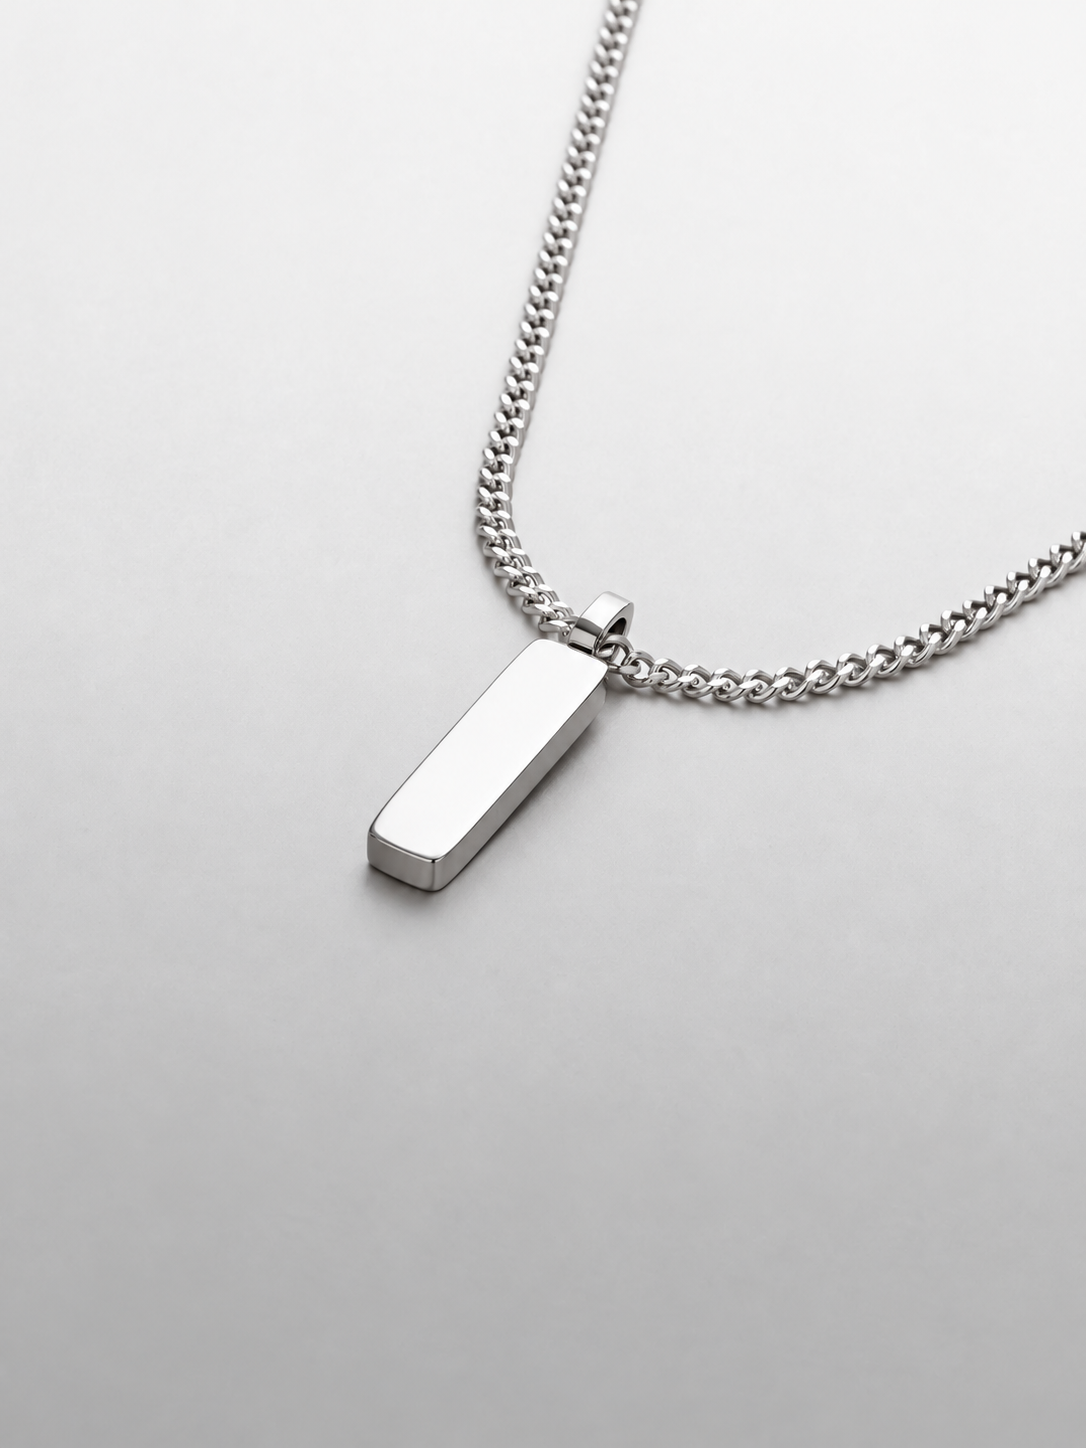
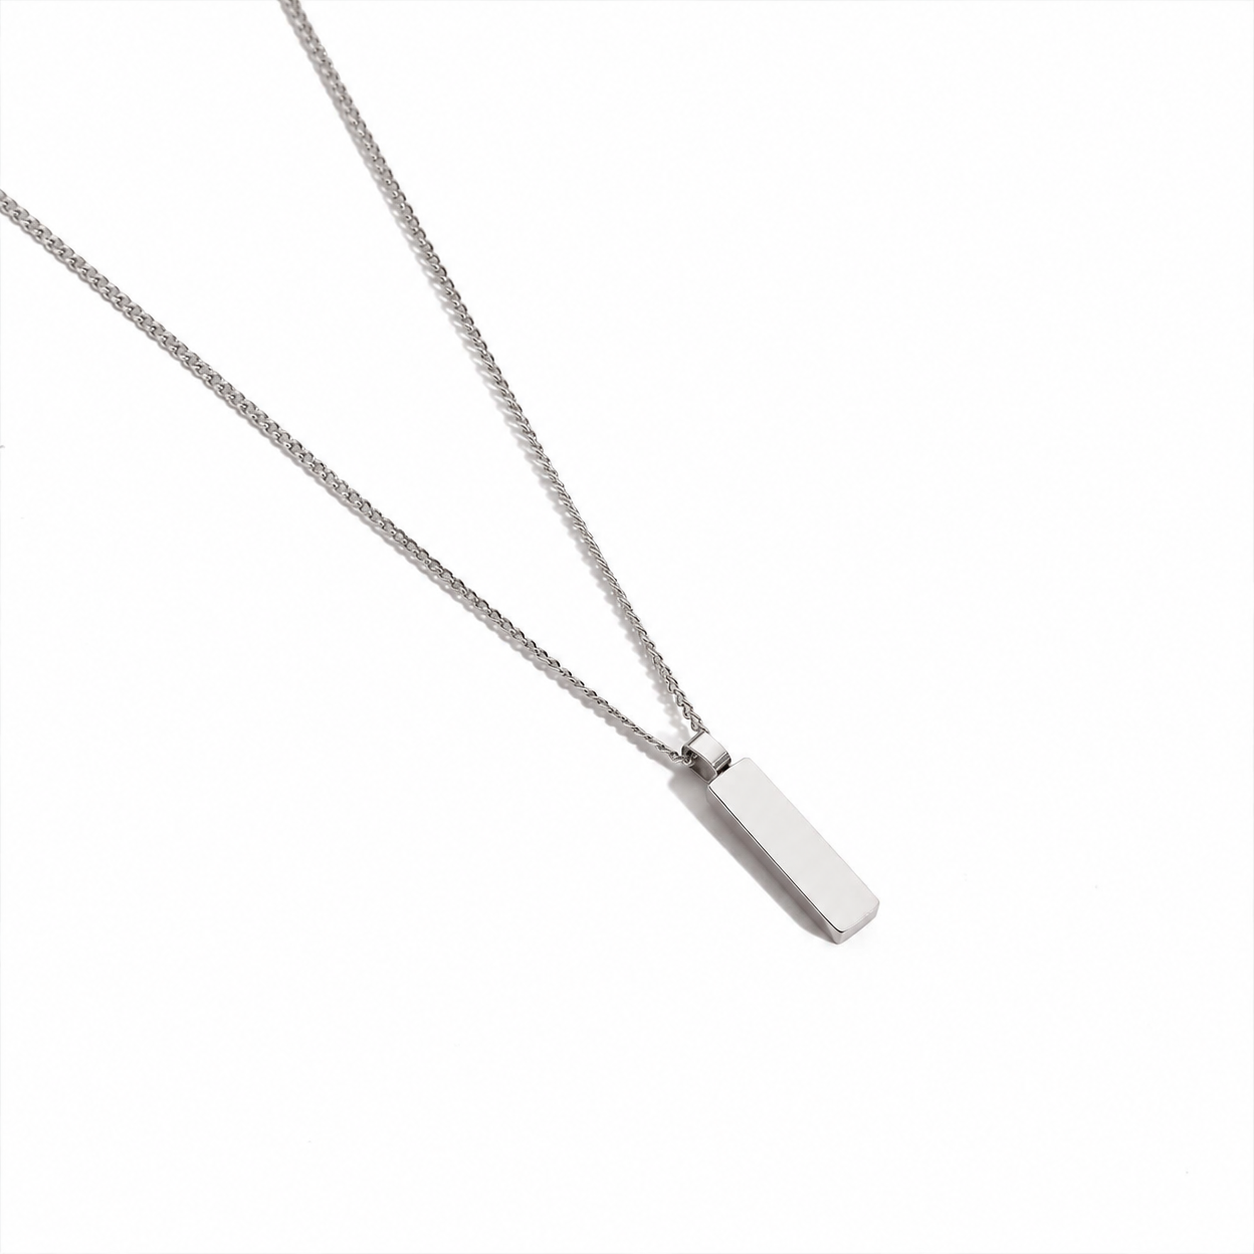
Rediseno: Alma Caribena en oro blanco con fotos nuevas de modelo y de cerca (rama local)

diff --git a/hombre.js b/hombre.js
@@ -45,7 +45,7 @@ const COLECCION_HOMBRE = [
   } },
   { id: 'hombre_colgante_1', tipo: 'colgantes', nombre: 'Alma Caribeña', acabados: {
       oro:        ['img/hombre/colgante-1-oro-producto.jpg', 'img/hombre/colgante-1-oro-puesto.png', 'img/hombre/colgante-1-oro-puesto-2.png'],
-      oro_blanco: ['img/hombre/colgante-1-oro-blanco-producto.png', 'img/hombre/colgante-1-oro-blanco-puesto.jpg', 'img/hombre/colgante-1-oro-blanco-puesto-2.png'],
+      oro_blanco: ['img/hombre/colgante-1-oro-blanco-producto.png', 'img/hombre/colgante-1-oro-blanco-puesto.png', 'img/hombre/colgante-1-oro-blanco-puesto-2.png'],
   } },
   { id: 'hombre_colgante_2', tipo: 'colgantes', nombre: 'Pacífico', acabados: {
       oro:        ['img/hombre/colgante-2-oro-producto.jpg', 'img/hombre/colgante-2-oro-puesto.png', 'img/hombre/colgante-2-oro-puesto-2.png'],
